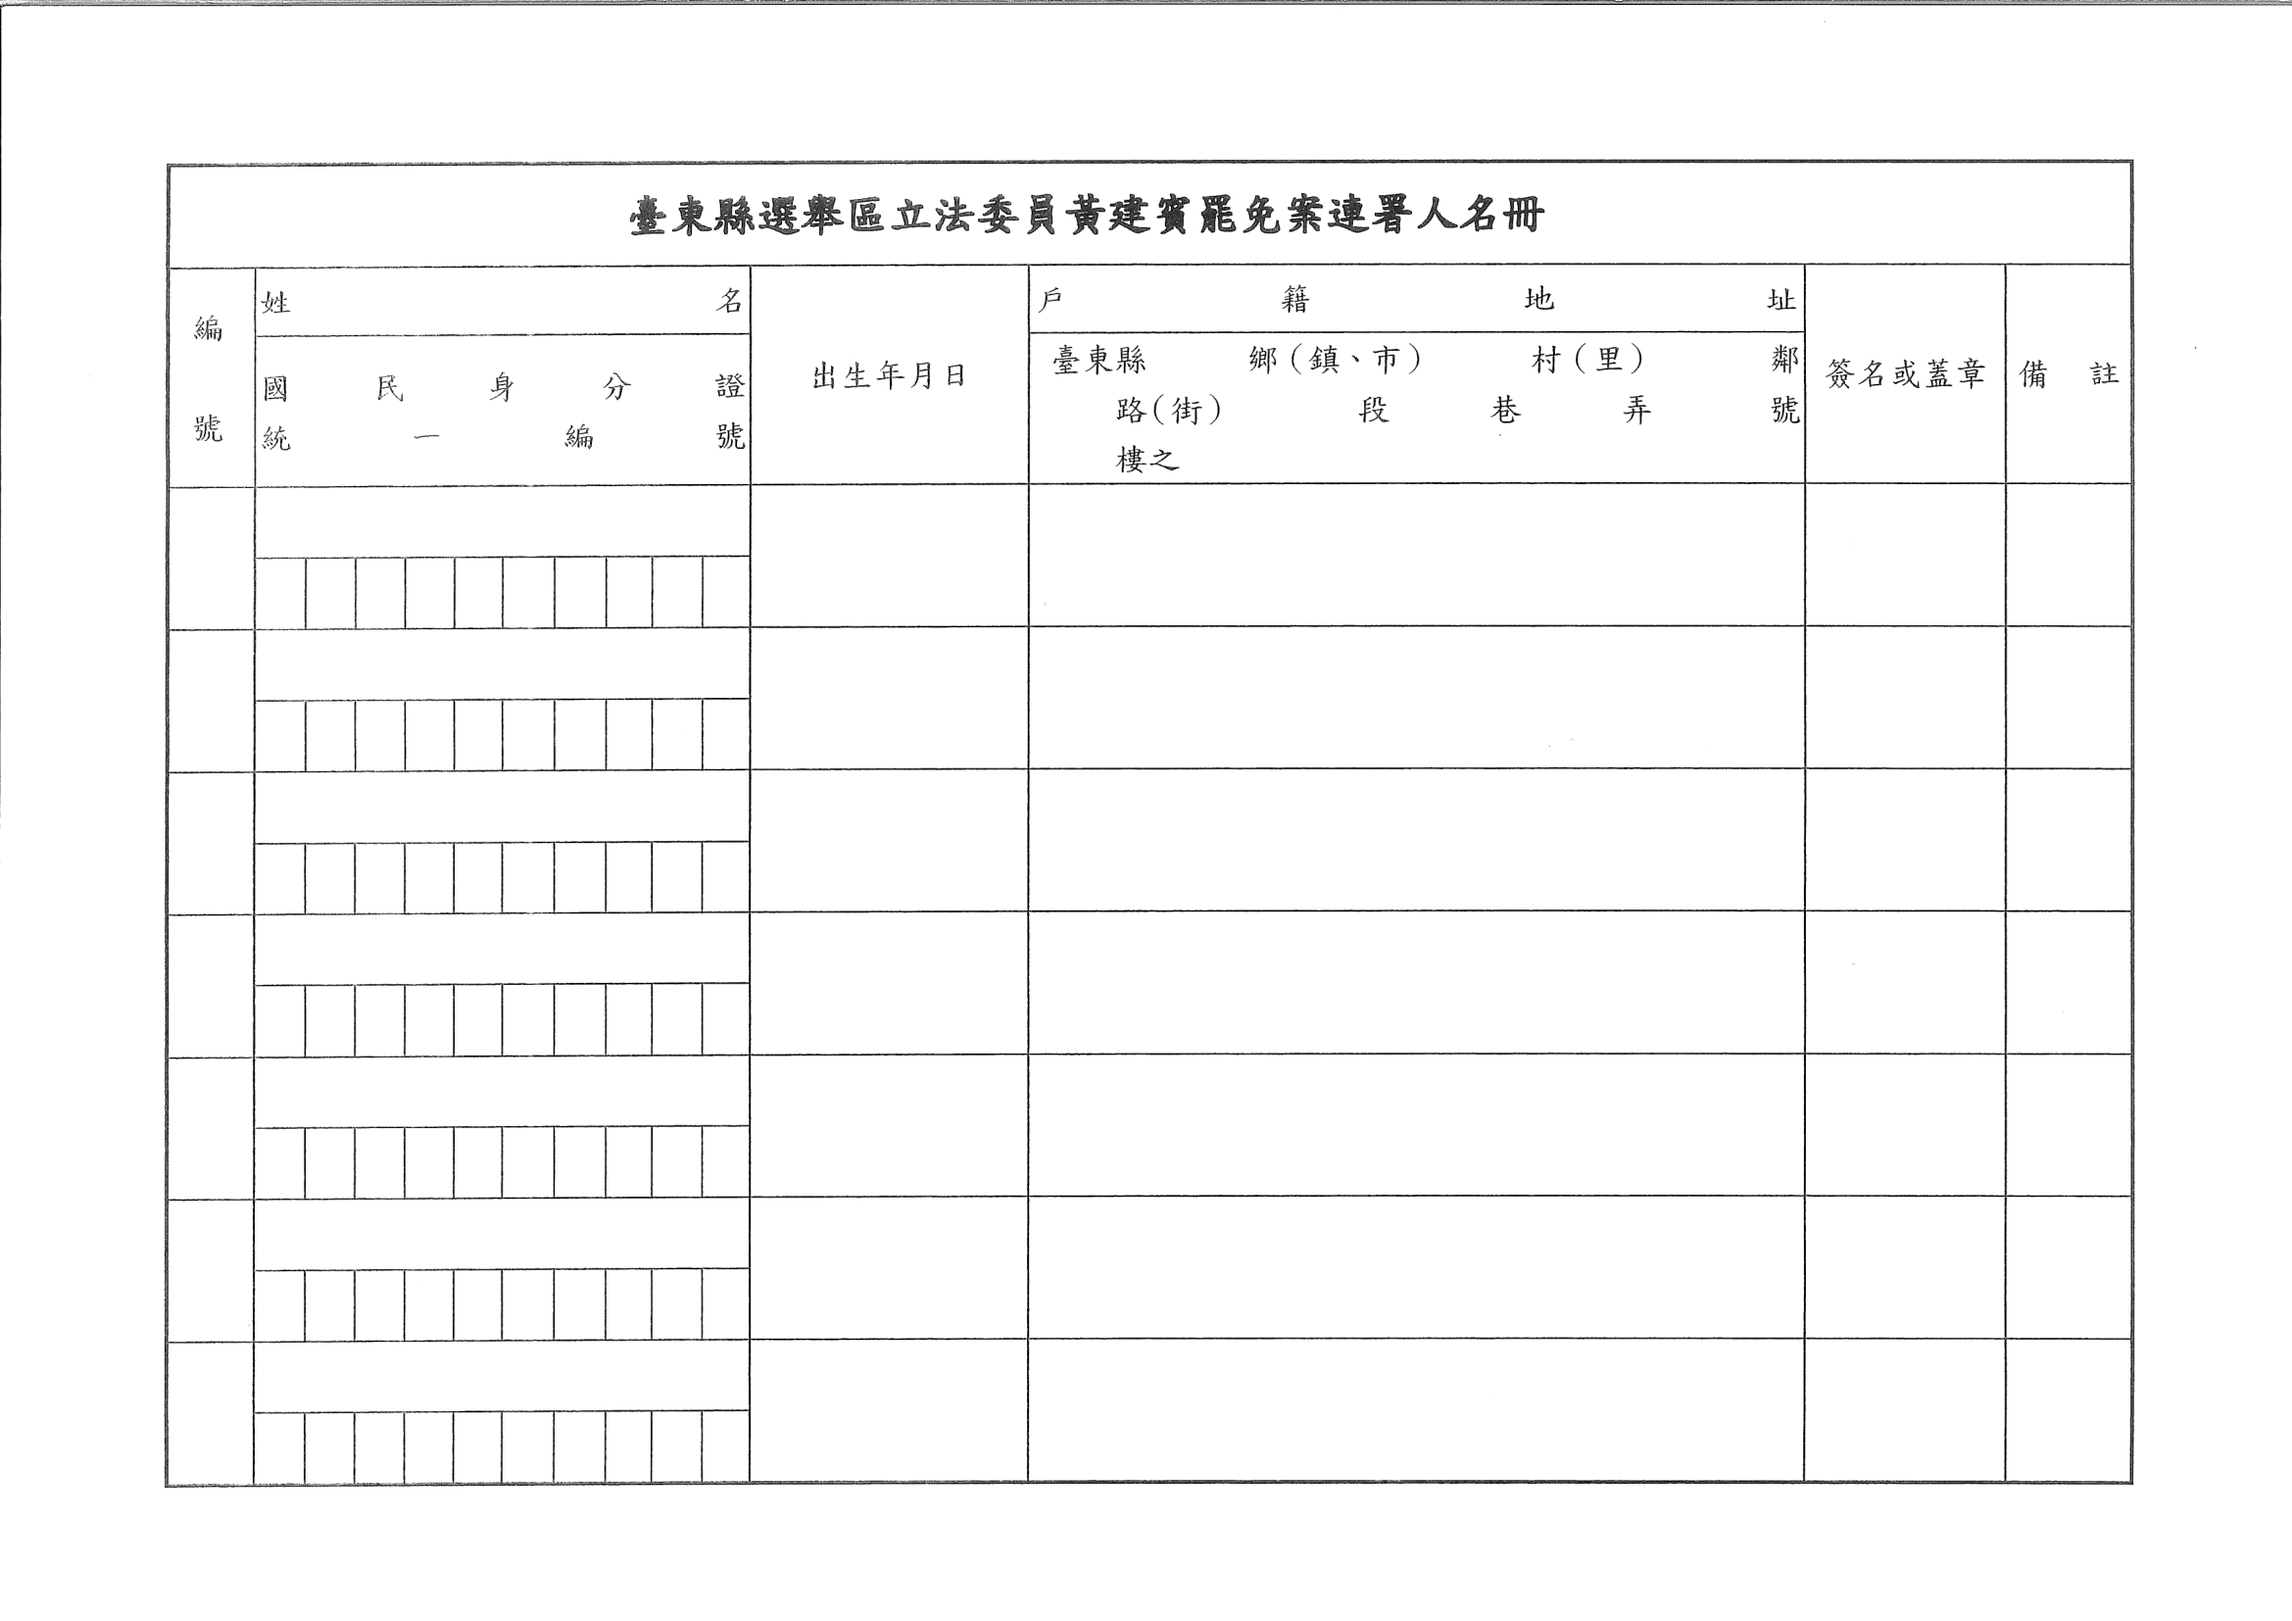
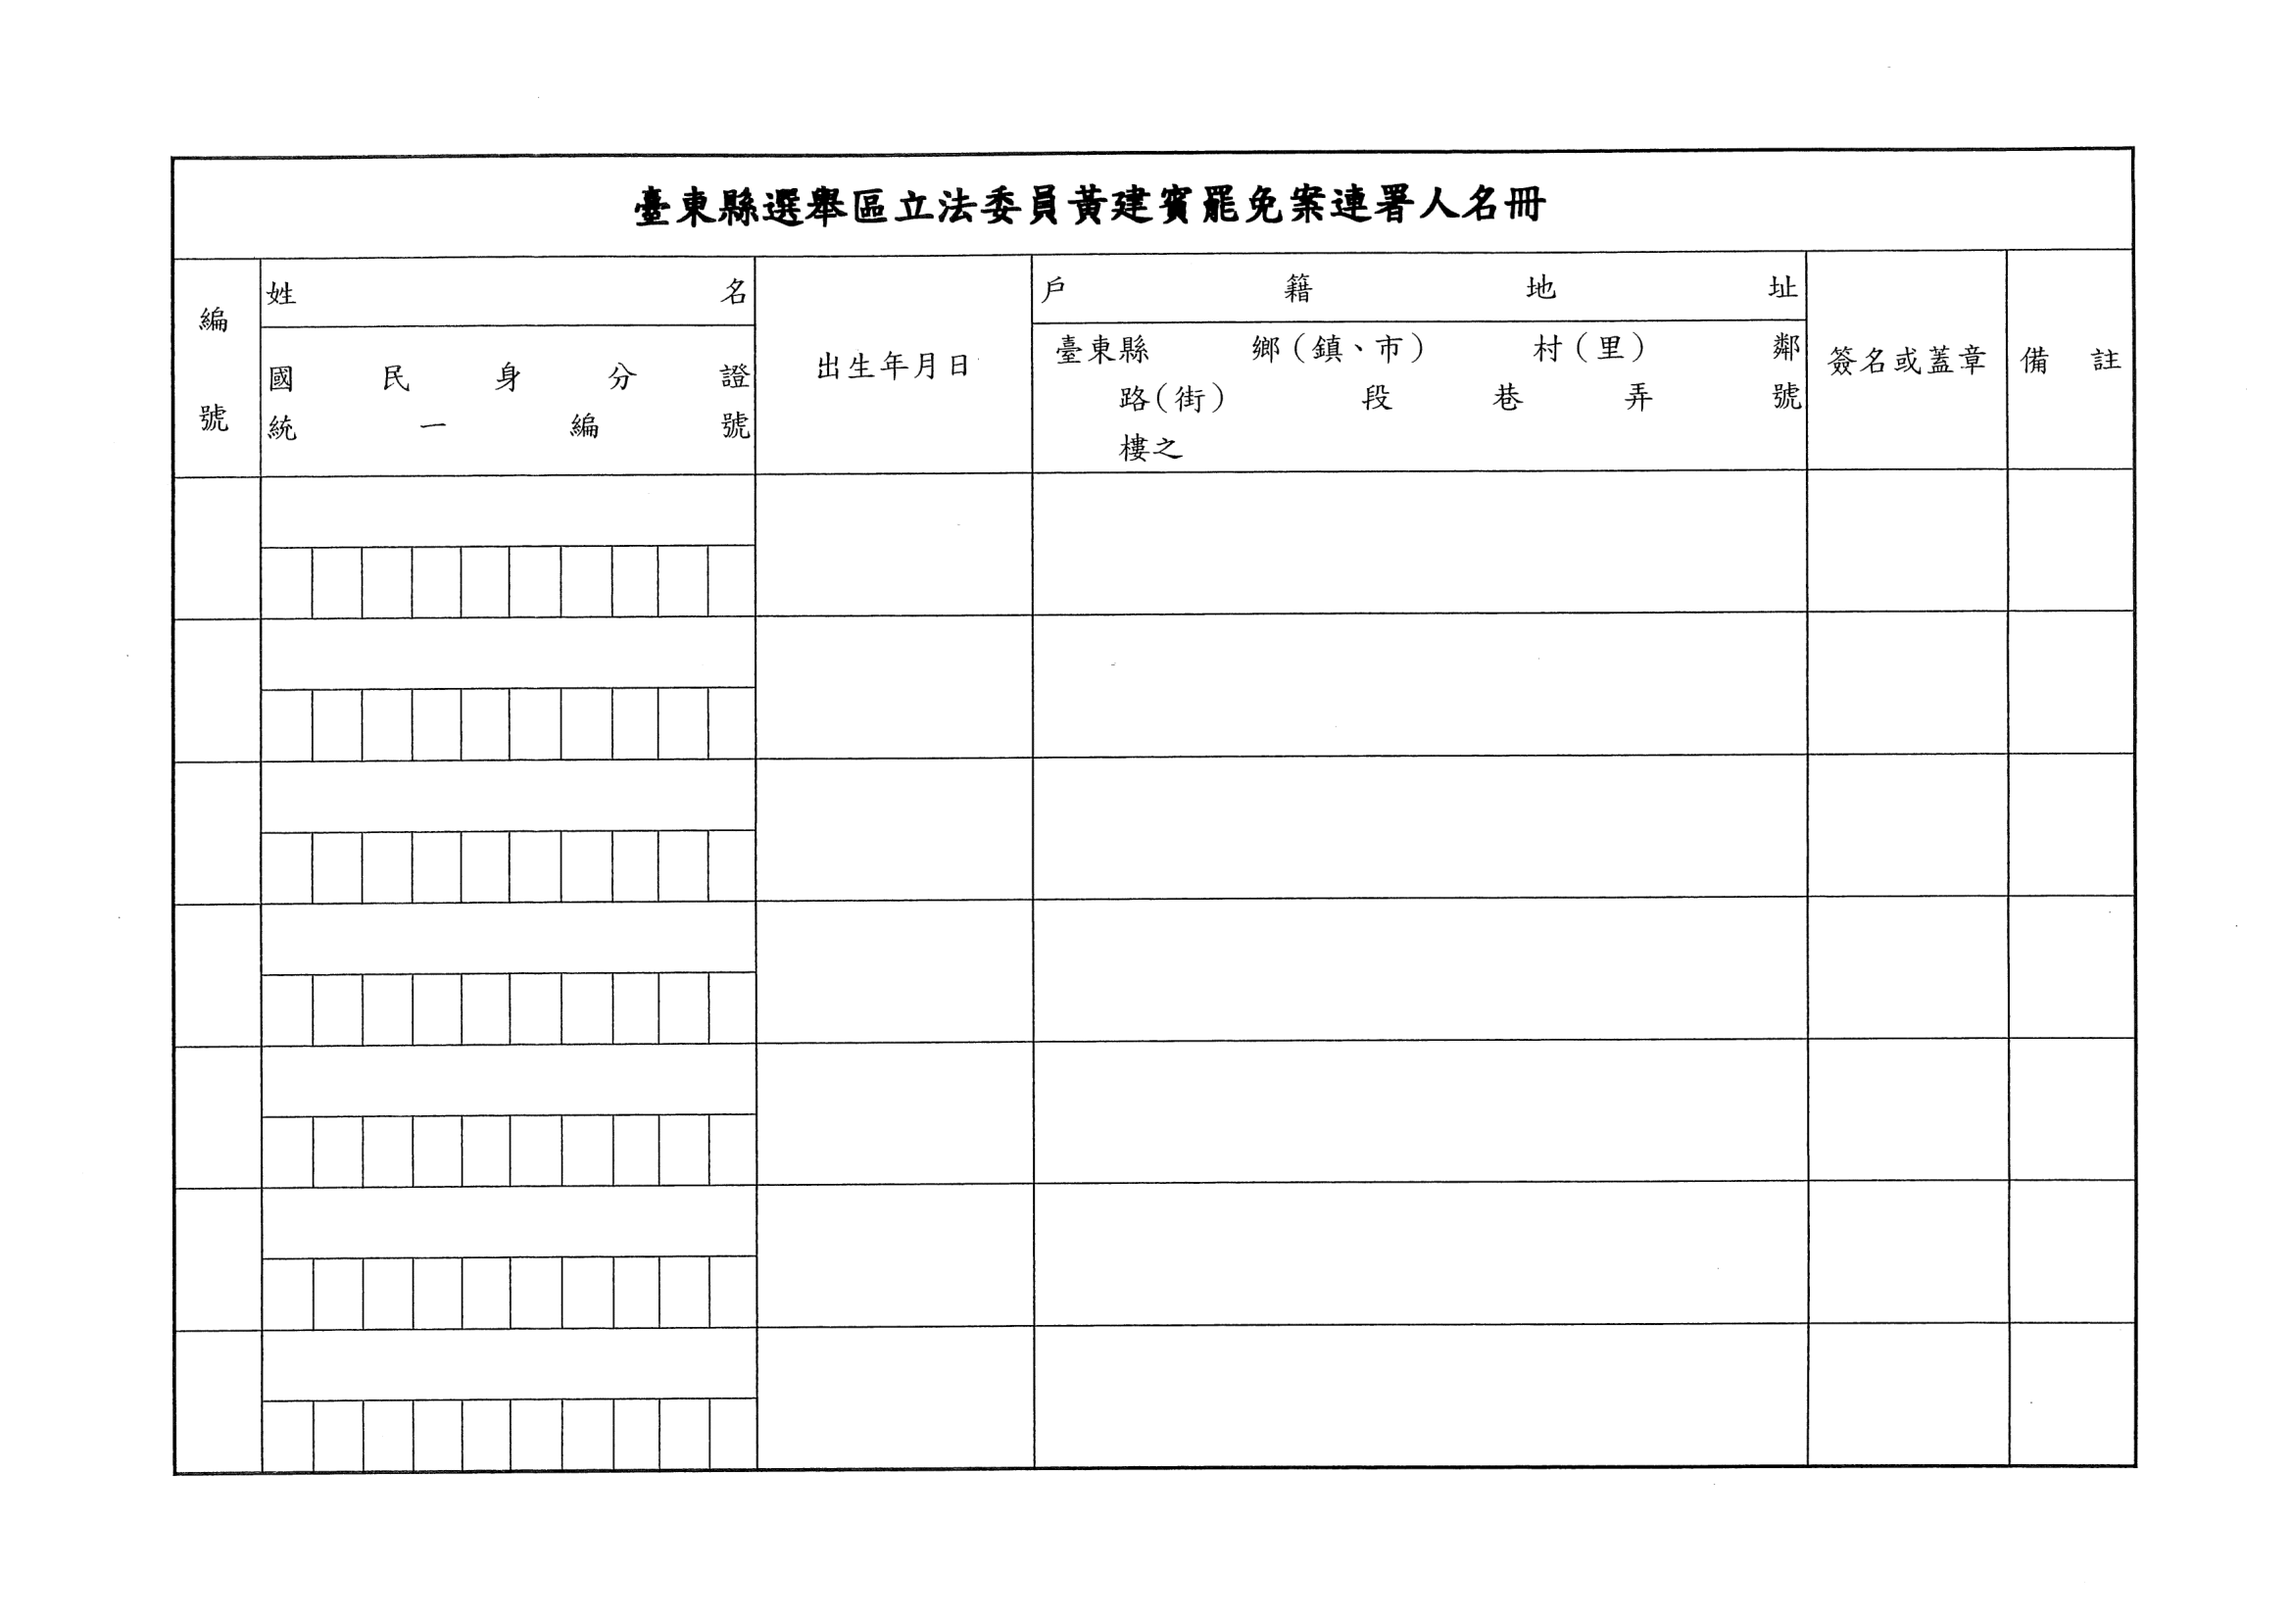
update taitung

diff --git a/templates/stage-2-黃建賓.html b/templates/stage-2-黃建賓.html
@@ -8,21 +8,21 @@
 	{{ template "preview-control-panel" . }}
 	<div class="a4-landscape">
 		<div class="img-container">
-			<img src="{{.BaseURL}}/assets/images/stage-2-{{.PoliticianName}}.png">
+			<img src="{{.BaseURL}}/assets/images/stage-2-{{.PoliticianName}}.png" style="transform: rotate(0.2deg);">
 		</div>
-		<div class="inputField center md" style="left:22.6%; top:29.5%; letter-spacing:0.73em">
+		<div class="inputField center md" style="left:22.8%; top:29%; letter-spacing:0.73em">
 			{{.Name}}
 		</div>
-		<div class="inputField center md" style="left:22.6%; top:34.4%; letter-spacing:0.72em">
+		<div class="inputField center md" style="left:22.8%; top:33.7%; letter-spacing:0.72em">
 			{{.IdNumber.D0}}{{.IdNumber.D1}}{{.IdNumber.D2}}{{.IdNumber.D3}}{{.IdNumber.D4}}{{.IdNumber.D5}}{{.IdNumber.D6}}{{.IdNumber.D7}}{{.IdNumber.D8}}{{.IdNumber.D9}}
 		</div>
-		<div class="inputField center sm" style="left:38.7%; top:32.8%; letter-spacing:0.02em">
+		<div class="inputField center sm" style="left:39.1%; top:32.6%; letter-spacing:0.02em">
 			{{.BirthYear}} 年 {{.BirthMonth}} 月 {{.BirthDate}} 日
 		</div>
-		<div class="inputField center xsm" style="left:62%; top:21.3%; width:33.5%; height:25%;">
+		<div class="inputField center xsm" style="left:62.3%; top:21.2%; width:33.5%; height:25%;">
 			{{.Address}}
 		</div>
-		<div class="whereToSign" style="left:83.2%; top:34.2%; width:7.7%; height:7.5%;"></div>
+		<div class="whereToSign" style="left:83.2%; top:33.5%; width:7.7%; height:7.5%;"></div>
 	</div>
 </body>
 </html>
